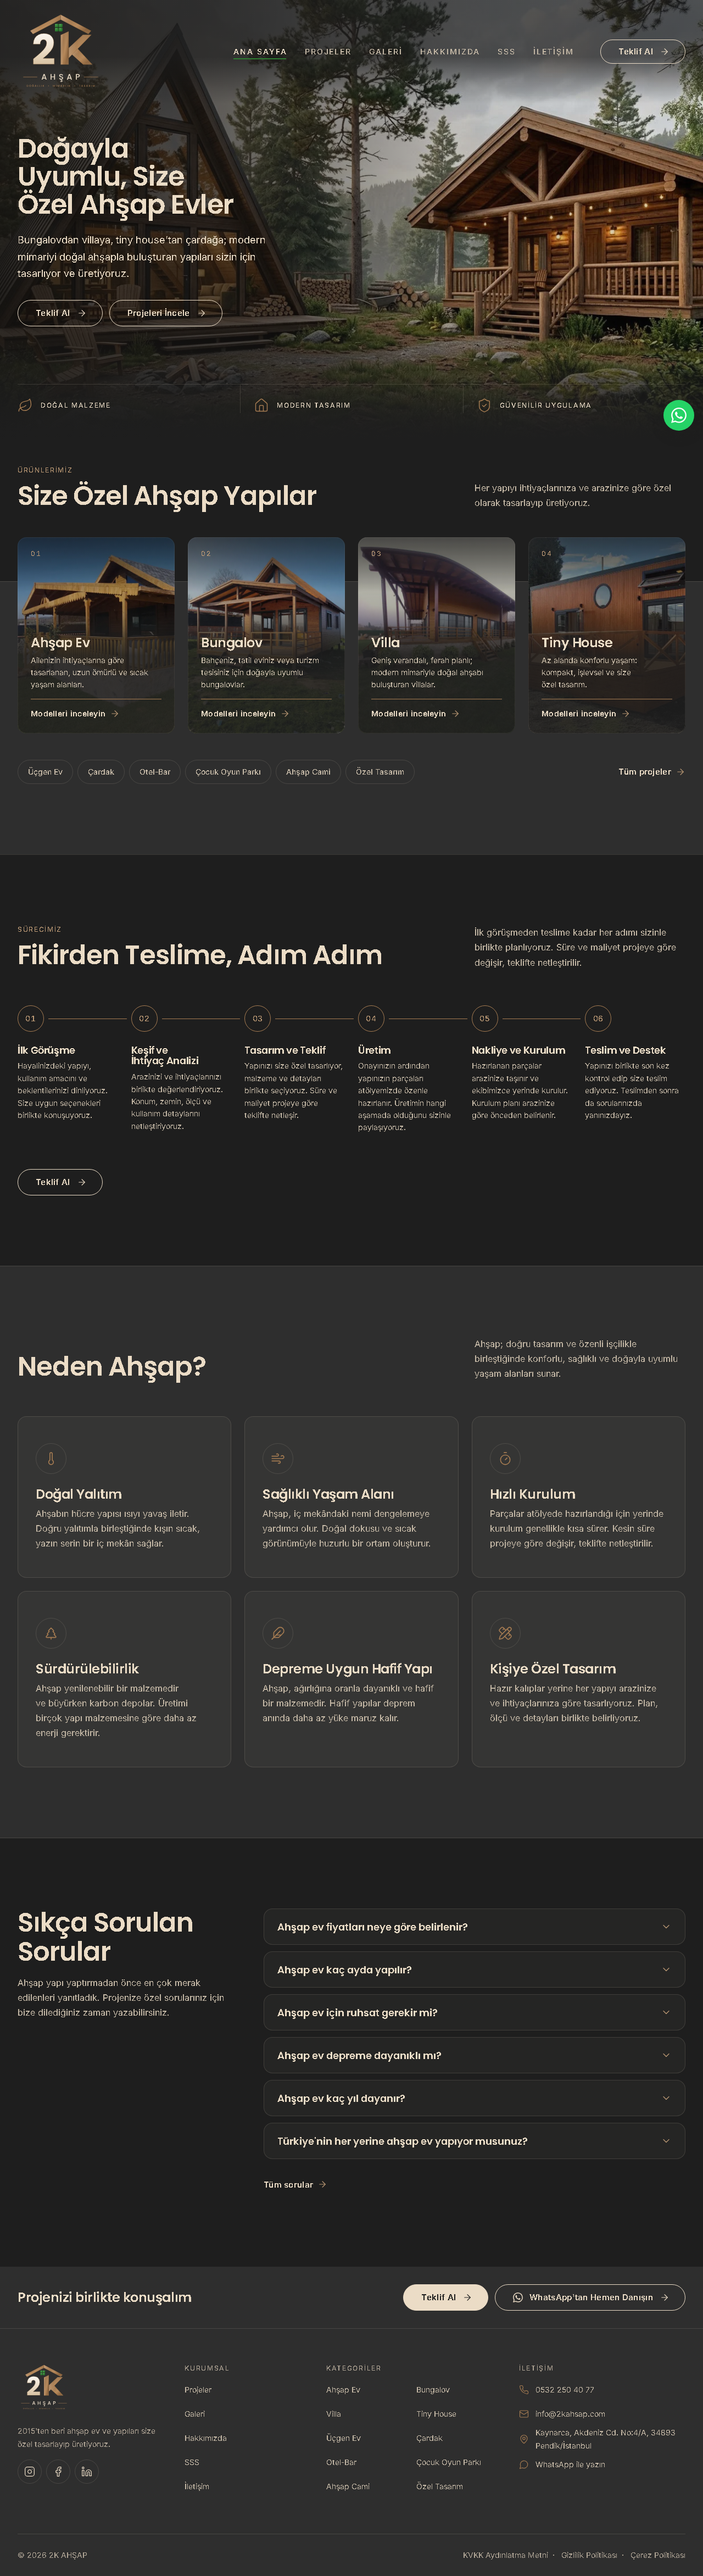
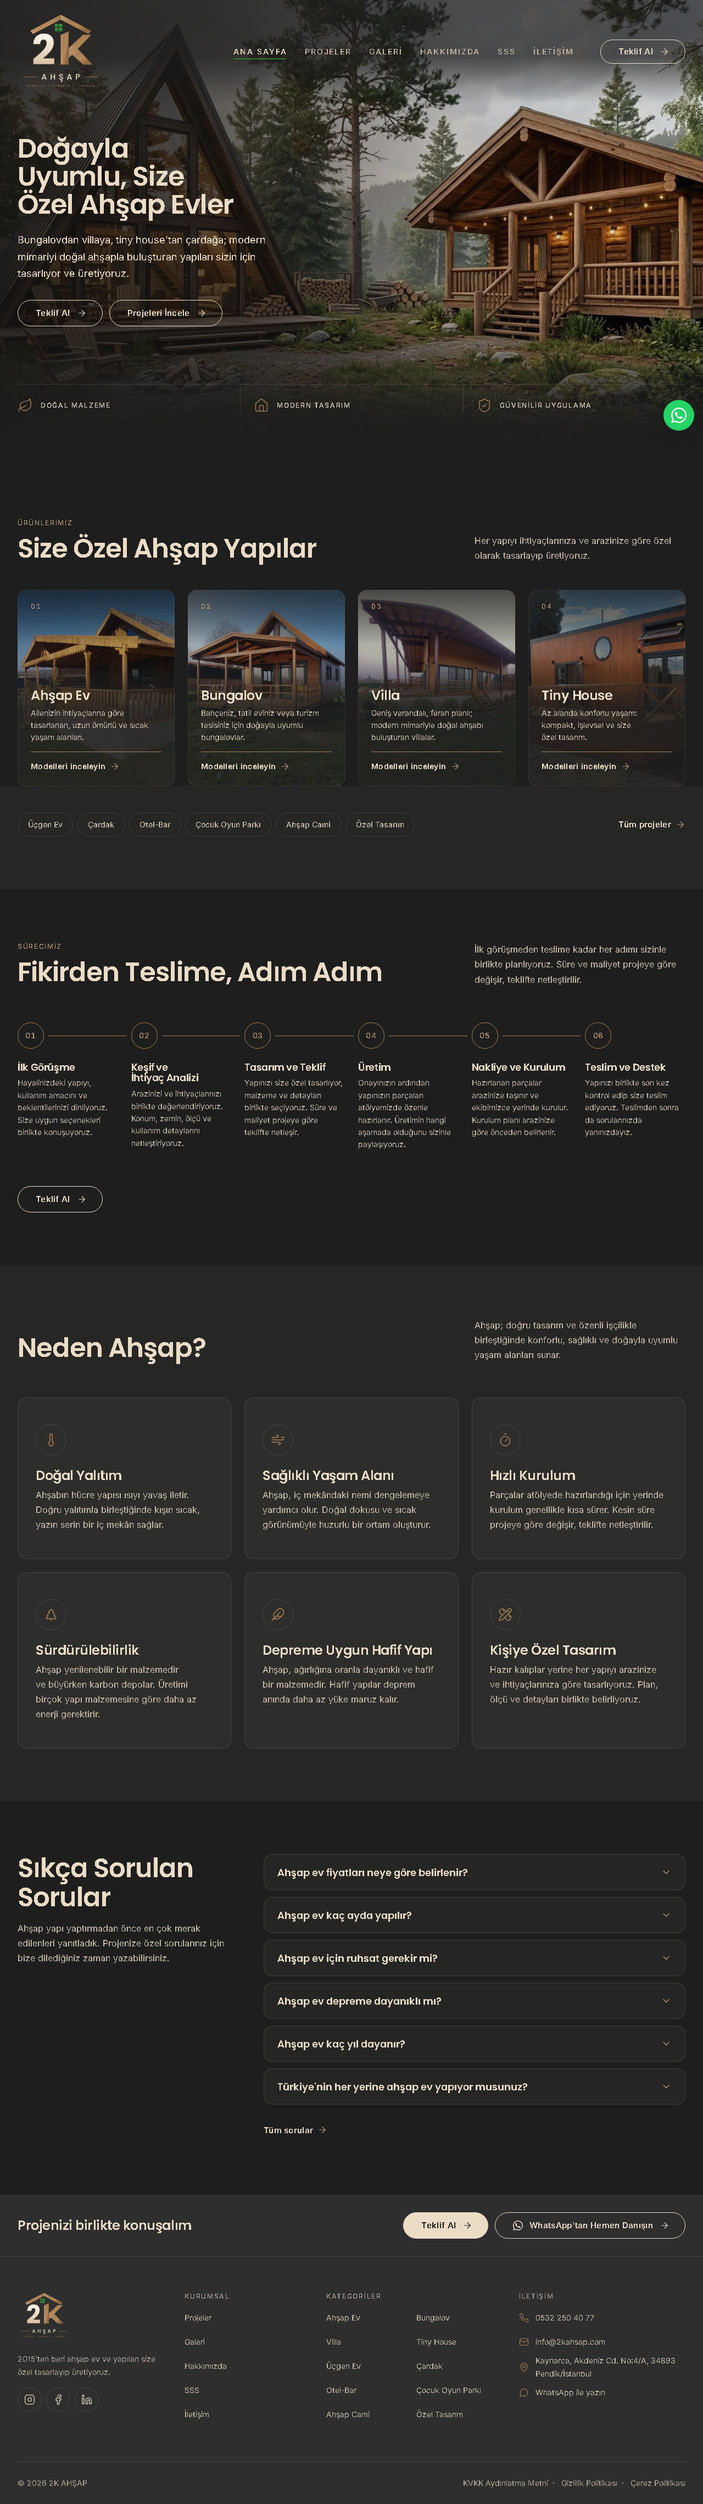
Ana sayfa bölüm geçişlerini düzenle: tek boşluk ritmi, çizgisiz ton geçişi
Müşterinin fark ettiği sert çizgiler ve düzensiz boşluklar için hazırlanan
seçeneklerden A (sade) + C'nin ton yumuşatması seçildi; Ürünlerimiz bandı
kartların altından başlıyor (müşteri onaylı).

- Tek boşluk ritmi: --bolum-ritim (mobil 64px, ≥ 768px 96px), .ana-akis
  kabında tanımlı. Sürecimiz, Neden Ahşap ve SSS onu bulursa kullanır;
  diğer sayfalarda --bolum geçerli kalır.
- Hero → Ürünlerimiz arası 2 ritim; her geçiş 128 / 192 / 192 px.
- Yeni token --color-zemin-ara-yumusak (#262625, gece + krem %4): Ürünlerimiz
  bandı ve Neden Ahşap antrasit yerine bunu kullanır.
- Ürünlerimiz: kartlar tamamen gece zeminde; bant kartların alt kenarından
  başlar (urunler-bant). Kartların arkasından geçen kenar kalktı.
- Bölüm sınırlarındaki 1px çizgiler kaldırıldı; gradyan yok.
- marka-stili §2 ve §8 güncellendi; tespit, karar ve görüntüler
  docs/gecis-secenekleri/ altında.
- Yalnızca ana sayfa referansları (3) yenilendi; diğer 40 çekim aynı,
  form-kontrol geçti.

diff --git a/src/styles/global.css b/src/styles/global.css
@@ -19,6 +19,8 @@
   /* Koyu tema rolleri. Kontrast oranları en kötü zemine göre: antrasit üstündeki kart (≈ #363534) */
   --color-zemin: var(--color-gece); /* sayfa zemini */
   --color-zemin-ara: var(--color-antrasit); /* bölümler arası ton farkı */
+  --color-zemin-ara-yumusak: #262625; /* gece + krem %4 (gece üstündeki kart yüzeyiyle aynı ton): ana sayfanın ara
+                                         bölümleri; ton farkı sezilir düzeyde kalır */
   --color-yuzey: rgba(235, 220, 198, 0.04); /* kart: gece üstünde ≈ #262625, antrasit üstünde ≈ #363534 */
   --color-baslik: var(--color-krem); /* ≥ 9.1:1 */
   --color-metin: #c2b6a4; /* krem %80 + gece; ≥ 6.1:1 */

diff --git a/docs/gecis-secenekleri/README.md b/docs/gecis-secenekleri/README.md
@@ -1,0 +1,67 @@
+# Ana sayfa bölüm geçişleri: tespit ve karar (12–13 Ekim 2026)
+
+Müşterinin fark ettiği iki sorun vardı. Hero'nun bitişinde sert düz çizgiler görünüyordu. Bölümler arasındaki boşluklar da düzensizdi.
+
+**Bölüm haritası:** A1 Hero · A2 Ürünlerimiz · A3 Sürecimiz · A4 Neden Ahşap · A5 SSS · A6 Footer (CTA bandı).
+
+Ölçümler, bir bölümün son içeriği (metin, kart, buton) ile sonraki bölümün ilk içeriği arasındaki boşluğu gösterir. Değerler 375 / 768 / 1280 px içindir. Sabit öğeler (WhatsApp düğmesi, mobil alt menü) çekimlerde gizlendi.
+
+## 1. Tespit (değişiklikten önce)
+
+| Geçiş | Zeminler | Sorun | Boşluk (px) |
+|---|---|---|---|
+| A1 → A2 | gece → gece (hero altı zemine erir) | **Tutarsız boşluk:** Ürünlerimiz, hero'nun hemen altında başlıyordu (şeridin alt boşluğu 48 + bölümün üst boşluğu 48). Bu boşluk diğer geçişlerin yarısından azdı, hero kesilmiş gibi görünüyordu. **Sert çizgi:** Ürünlerimiz'in antrasit bandı kartların 48 / 64 / 80 px altından başlıyordu. Sınırdaki 1px çizgi kartların arkasından tam genişlikte geçiyordu. Bu, hero bittikten hemen sonra görülen ani ton değişimi ve düz çizgiydi. **Hero içi:** İkon şeridinin üst çizgisi fotoğrafın üstünden tam genişlikte geçiyor. Bu çizgi hero'nun içeriğine ait. Fotoğraf erimesinin kendisinde kesik kenar yok, erime yumuşak. 768 px'te ikon şeridi erimenin ortasında kalıyor ve fotoğraf şeridin hemen altına kadar görünüyor. | 96 / 96 / 96 |
+| A2 → A3 | antrasit → gece | 1px çizgi ve ani ton değişimi. Boşluk 1280 px'te A1 → A2'nin 2,7 katıydı. | 161 / 161 / 257 |
+| A3 → A4 | gece → antrasit | 1px çizgi ve ani ton değişimi | 161 / 161 / 257 |
+| A4 → A5 | antrasit → gece | 1px çizgi ve ani ton değişimi | 161 / 161 / 257 |
+| A5 → A6 | gece → antrasit | Ani ton değişimi, çizgi yok. Footer'ın üst boşluğu 32 px olduğu için boşluk diğerlerinden kısaydı. | 112 / 112 / 160 |
+
+**Ritim:** Bölüm boşluğu `--bolum: clamp(80px, 10vw, 128px)` olarak tanımlı: 375 ve 768 px'te 80 px, 1280 px'te 128 px. Tablet ayrı bir ölçek almıyordu. Ürünlerimiz'in üst boşluğu ise sabit 48 px'ti.
+
+## 2. Karar ve uygulama (13 Ekim 2026)
+
+Üç seçenek hazırlandı:
+
+- **A) Sade:** tek boşluk ritmi; çizgiler kaldırıldı.
+- **B) Karartmalı:** A'ya ek olarak hero altında daha uzun karartma ve bölümler arasında gradyanlar.
+- **C) Ahşap dokunuşu:** A'ya ek olarak başlık üstünde ahşap ayraç ve antrasit yerine `#262625`.
+
+Müşteri **A'nın boşluk ritmiyle C'nin ton yumuşatmasını** seçti. B kullanılmadı; `CLAUDE.md`'deki "Gradyan yok" kuralı aynen geçerli. Başlık üstü ayraç da eklenmedi.
+
+Öncelikli sorun A2'deki antrasit banttı: kartların arkasında sert bir yatay kenarla bitiyordu. İki hal karşılaştırıldı: bant kartların arkasında ya da kartların alt kenarından başlayarak. Müşteri ikincisini seçti.
+
+Uygulanan:
+
+- **Tek ritim:** Her bölümün üst ve alt iç boşluğu `--bolum-ritim`: mobilde 64 px, 768 px ve üstünde 96 px. Değişken `src/pages/index.astro` içindeki `.ana-akis` kabında tanımlı. Sürecimiz, Neden Ahşap ve SSS bu değişkeni bulursa kullanır. Hakkımızda ve kategori sayfalarında eskisi gibi `--bolum` geçerli.
+- **Hero → Ürünlerimiz:** İki bölüm aynı gece zeminde sürdüğü için ikon şeridinden bölüm etiketine 2 ritim boşluk var.
+- **Ton:** Ürünlerimiz bandı ve Neden Ahşap, antrasit yerine `--color-zemin-ara-yumusak` kullanıyor. Bu ton `#262625`: gece + krem %4, yani gece üstündeki kart yüzeyiyle aynı.
+- **Ürünlerimiz bandı:** Kartlar tamamen gece zeminde duruyor. Bant kartların alt kenarından başlıyor ve bölümün sonuna kadar uzanıyor. 375, 768 ve 1280 px'te bandın üst kenarı kartların alt kenarıyla piksel düzeyinde aynı hizada.
+- **Çizgi ve gradyan yok:** Bölüm sınırlarındaki 1px çizgiler kaldırıldı. Bölümleri yalnızca ton farkı ayırıyor.
+- **Dokunulmayanlar:** Hero'daki ikon şeridinin üst çizgisi değişmedi; sonra ayrıca bakılacak. Footer site genelinde ortak olduğu için değişmedi.
+
+| Boşluk (px) | A1 → A2 | A2 → A3 | A3 → A4 | A4 → A5 | A5 → A6 |
+|---|---|---|---|---|---|
+| Önce, 375 / 768 / 1280 | 96 / 96 / 96 | 161 / 161 / 257 | 161 / 161 / 257 | 161 / 161 / 257 | 112 / 112 / 160 |
+| Sonra, 375 / 768 / 1280 | 128 / 192 / 192 | 128 / 192 / 192 | 128 / 192 / 192 | 128 / 192 / 192 | 96 / 128 / 128 |
+
+A5 → A6 diğer geçişlerden kısa kalıyor, çünkü footer CTA bandının üst boşluğu (32 px) site genelinde ortak.
+
+## 3. Görüntüler
+
+Sabit öğeler (WhatsApp düğmesi, mobil alt menü) çekimlerde gizli.
+
+| Klasör / dosya | İçerik |
+|---|---|
+| `0-mevcut/` | Değişiklikten önceki ana sayfa: tam sayfa (`ana-sayfa-375`, `-1280`) ve hero bitişinin yakın çekimi (`hero-bitisi-375`, `-1280`). 375 px'te fotoğrafın erimesi metnin üstünde başladığı için yakın çekim fotoğrafın ortasından alındı. |
+| `secim/ana-sayfa-*`, `secim/hero-bitisi-*` | Uygulanan hâlin aynı çekimleri |
+| `secim/a2-uc-hal-1280.png`, `-375.png` | A2'nin üç hali yan yana: 1. bugünkü, 2. bant kartların arkasında, 3. bant kartların altında (uygulanan) |
+| `secim/a2-a3-bant-altta-1280.png`, `-375.png` | Uygulanan hâlde kartların altından Sürecimiz'e geçişin 1:1 yakın çekimi |
+
+## 4. Diğer sayfalarda benzer durumlar (yalnızca liste; ayrı iş olarak bakılacak)
+
+- **Footer CTA bandı (tüm sayfalar):** Gece zeminden antrasite çizgisiz ve ani bir geçiş var. Üstündeki boşluk sayfaya göre değişiyor: 1280 px'te 128 ile 193 px arası.
+- **Sayfa başlık bantları:** Hakkımızda, SSS, Teklif Al, İletişim ve yasal sayfaların antrasit bandının altında 1px çizgi var. Projeler, kategori, proje detayı ve galeride yok.
+- **Kategori sayfası (`/bungalov`):** Projeler → SSS geçişi aynı zeminde ve arada 1px çizgi var. Boşluk 1280 px'te 225 px, 375 px'te 145 px; sayfanın diğer geçişlerinden belirgin biçimde büyük.
+- **Hakkımızda:** Başlık bandı → Sürecimiz geçişinde çizgi ve ton değişimi var. Boşluk 1280 px'te 225 px, 375 px'te 145 px.
+- **Proje detayı:** Bölümler arası boşluklar tutarsız: 1280 px'te 72, 89 ve 209 px; 375 px'te 56, 65 ve 145 px.
+- **SSS sayfası:** Son bölümün üst ve alt boşluğu 1280 px'te 161 px. Sayfanın diğer boşluklarından büyük.

diff --git a/.claude/skills/marka-stili/SKILL.md b/.claude/skills/marka-stili/SKILL.md
@@ -41,6 +41,7 @@ Sayfa ve bileşenler marka renklerini değil, önce bu rol token'larını kullan
 |---|---|---|---|
 | Sayfa zemini | `--color-zemin` | gece `#1E1E1E` | `body` ve varsayılan bölüm zemini |
 | Ara bölüm zemini | `--color-zemin-ara` | antrasit `#2E2E2E` | Bölümleri ayırmak için dönüşümlü kullanılır |
+| Ara bölüm zemini, yumuşak | `--color-zemin-ara-yumusak` | `#262625` (gece + krem %4) | Ana sayfanın ara bölümleri; gece ile ton farkı sezilir düzeyde (§8) |
 | Kart yüzeyi | `--color-yuzey` | krem %4 saydam | Zeminden biraz açık: gece üstünde ≈ `#262625`, antrasit üstünde ≈ `#363534` |
 | Başlık | `--color-baslik` | krem `#EBDCC6` | h1–h3, kart başlıkları |
 | Gövde metni | `--color-metin` | `#C2B6A4` (krem %80 + gece) | Paragraflar, liste ve link metni |
@@ -49,7 +50,7 @@ Sayfa ve bileşenler marka renklerini değil, önce bu rol token'larını kullan
 | İnce çizgi | `--color-cizgi` | krem %14 saydam | Kart kenarı, ayraç, bölüm çizgisi (dekoratif) |
 | Fotoğraf karartması | `--color-karartma` | gece %70 saydam | Fotoğraf üstündeki metnin altı |
 
-- **Beyaz, krem veya açık zeminli bölüm yoktur.** Bölümler `#1E1E1E` ↔ `#2E2E2E` ton farkı ve ince çizgiyle ayrılır.
+- **Beyaz, krem veya açık zeminli bölüm yoktur.** Bölümler `#1E1E1E` ↔ `#2E2E2E` ton farkı ve ince çizgiyle ayrılır. Ana sayfada yalnızca ton farkıyla ayrılır, çizgi yoktur (§8).
 - Saydam türevler yalnızca bu paletten türetilir ve `src/styles/global.css` içinde token olarak tanımlanır. Sayfa ve bileşenlerde sabit hex/rgba yazılmaz; yeni bir ton gerekirse önce token eklenir.
 - **Dağılım:** ~%85 koyu zemin (gece + antrasit), ~%10 krem metin, ~%5 ahşap + yeşil vurgu. Yeşil çok az kullanılır; büyük yeşil alan veya yeşil buton yoktur.
 
@@ -237,7 +238,11 @@ Hareket sakin ve tek seferliktir; içeriği öne çıkarır, dikkat dağıtmaz. 
 - **Karartma:** soldan sağa açılan gece gradyanı — metnin durduğu sol tarafta en koyu (etkin opaklık ≥ %70), sağa doğru azalır ve fotoğrafın ışıklı kısmı görünür kalır. Mobilde metin genişliği kapladığı için karartma metin bölgesinde en az %70 kalır.
 - Tek `<h1>`: net değer önerisi. Altında 1–2 cümlelik açıklama ve güven unsuru ("2015'ten beri · 300+ proje").
 - Butonlar: pill çerçeveli "Teklif Al" ve "Projeleri İncele" (bkz. §9). Yeşil veya dolu buton yok.
-- Fotoğraf masaüstünde metin sütununun bittiği yerden başlar (en az %42) ve sola doğru zemine erir; başlık evin üstüne binmez. Hero'nun alt %25'i sayfa zeminine erir, sonraki bölüm aynı zemin renginden başlar. Ana sayfada sonraki bölümün (Ürünlerimiz) başlığı ve kartların üst kısmı bu gece zeminde kalır, kartların gerisi antrasit banda oturur; kartlar iki tonun sınırına biner (mobil 48px, tablet 64px, masaüstü 80px, `--bindirme`). Sınırda 1px `--color-cizgi` çizgisi vardır.
+- Fotoğraf masaüstünde metin sütununun bittiği yerden başlar (en az %42) ve sola doğru zemine erir; başlık evin üstüne binmez. Hero'nun alt %25'i sayfa zeminine erir, sonraki bölüm aynı zemin renginden başlar. Ana sayfada sonraki bölümün (Ürünlerimiz) başlığı ve kartları tamamen bu gece zeminde durur. Kartların alt kenarından başlayan ara yumuşak tonda (`--color-zemin-ara-yumusak`) bir bant, kategori linklerini taşır ve bölümün sonuna kadar uzanır. Bandın kenarı kartların ortasından geçmez. Sınırda çizgi ve gradyan yoktur.
+- **Ana sayfa bölüm geçişleri** (müşteri onaylı, 13 Ekim 2026; ayrıntı `docs/gecis-secenekleri/README.md`):
+  - Tek boşluk ritmi: her bölümün üst ve alt iç boşluğu `--bolum-ritim`, mobilde 64px, ≥ 768px'te 96px. Hero → Ürünlerimiz aynı zeminde sürdüğü için ikon şeridinden bölüm etiketine 2 ritim.
+  - Ara bölümler (Ürünlerimiz bandı, Neden Ahşap) antrasit yerine `--color-zemin-ara-yumusak` (`#262625`) kullanır.
+  - Bölümleri yalnızca ton farkı ayırır; bölüm sınırlarında 1px çizgi ve gradyan yoktur.
 - Altında, ince dikey çizgilerle ayrılmış **3 ikonlu bilgi şeridi**: "Doğal Malzeme" (yaprak), "Modern Tasarım" (ev), "Güvenilir Uygulama" (kalkan). Ahşap çizgi ikon + büyük harfli etiket; rakam kullanılmaz.
 - Hero fotoğrafları `scripts/hero-gorseli.mjs` ile üretilir (kadraj, sıcak renk düzeltmesi, netlik; kaynak dosyaya dokunulmaz).
 - Hero görseli LCP öğesidir: `loading="eager"`, `fetchpriority="high"`, WebP/AVIF, `srcset` ile boyutlandırılmış. Lazy-load yapılmaz.

diff --git a/docs/guvenli-mod/README.md b/docs/guvenli-mod/README.md
@@ -100,6 +100,7 @@ Tek pikselden küçük bir değişiklik (çok küçük puntoda bir nokta gibi) g
 | 12 Ekim 2026 | dd31535 | Y ve İ yenilendi: yasal metinler tamamlandı, KVKK kutusu metni "KVKK Aydınlatma Metni'ni okudum." oldu (onaylı). T2 ve T3 eklendi. |
 | 12 Ekim 2026 | a216212 | 39 referansın tümü yenilendi: kategori ve proje düzenlemesi (onaylı). Ahşap Cami kategorisi eklendi, A-Frame "Üçgen Ev" oldu, projeler taşındı, birleştirildi, biri kaldırıldı. Değişen yerler: her sayfada footer kategori sütunu; A2 kategori butonları; P2 kartları; G2 filtresi ve ilk ekran; T2-1 yapı tipi kartları. Eski ve yeni derlemenin CSS/JS'i bayt bayt aynı, gövde HTML'i bu bölgeler dışında aynıydı. |
 | 12 Ekim 2026 | Bu satırı ekleyen commit (kod ve referanslar birlikte) | M1 ve M2 eklendi (4 referans): mobil menü paneli hatası düzeltildikten sonra çekildi. Kaydırılmış sayfada panel header'a hapsolup kesiliyordu (`docs/hata-mobil-menu/`). Mevcut 39 referans değişmedi, düzeltmeden sonra da 39/39 aynı çıktı. Bu dört çekim düzeltme öncesi derlemede 4/4 fark verdi. |
+| 13 Ekim 2026 | Bu satırı ekleyen commit (kod ve referanslar birlikte) | Yalnızca A (ana sayfa, 3 referans) yenilendi: bölüm geçişleri düzenlendi (onaylı; `docs/gecis-secenekleri/`). Tek boşluk ritmi, bölüm sınırlarında çizgi yok, ara bölümlerde `#262625`, Ürünlerimiz bandı kartların altından başlıyor. Yenilemeden önce fark yalnızca A'nın 3 çekimindeydi; diğer 40 çekim aynıydı (ikisi gürültü düzeyinde). Ayar kapalıyken hazırlanan önizleme derlemeleri de 43/43 geçmişti. |
 
 ### Bilinen sınırlar
 
